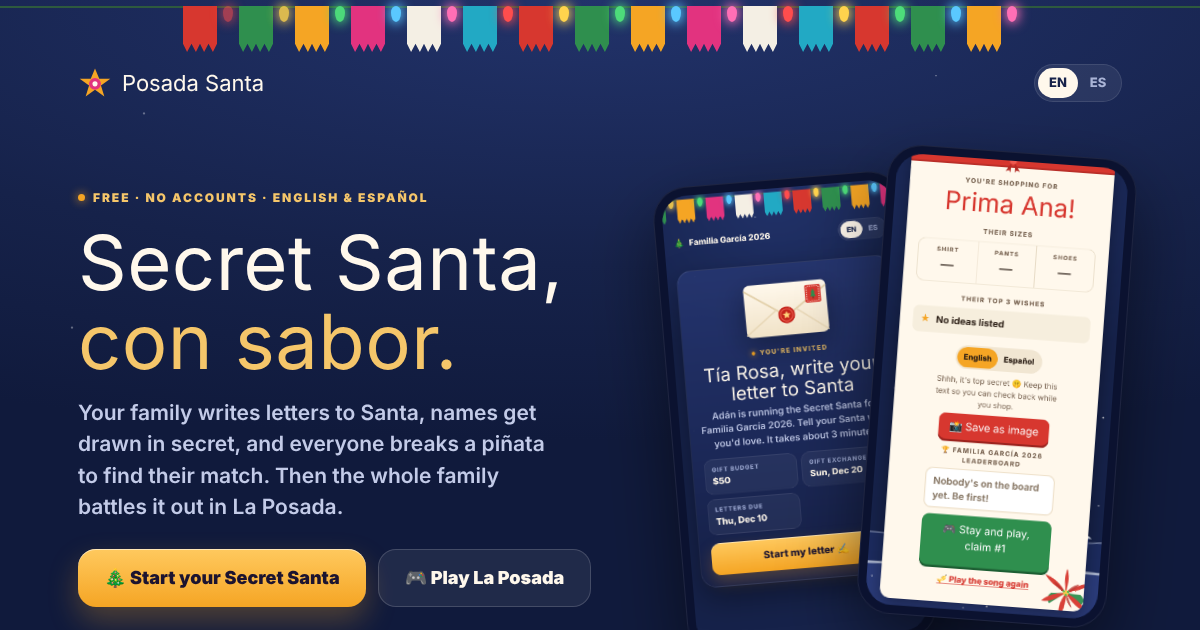
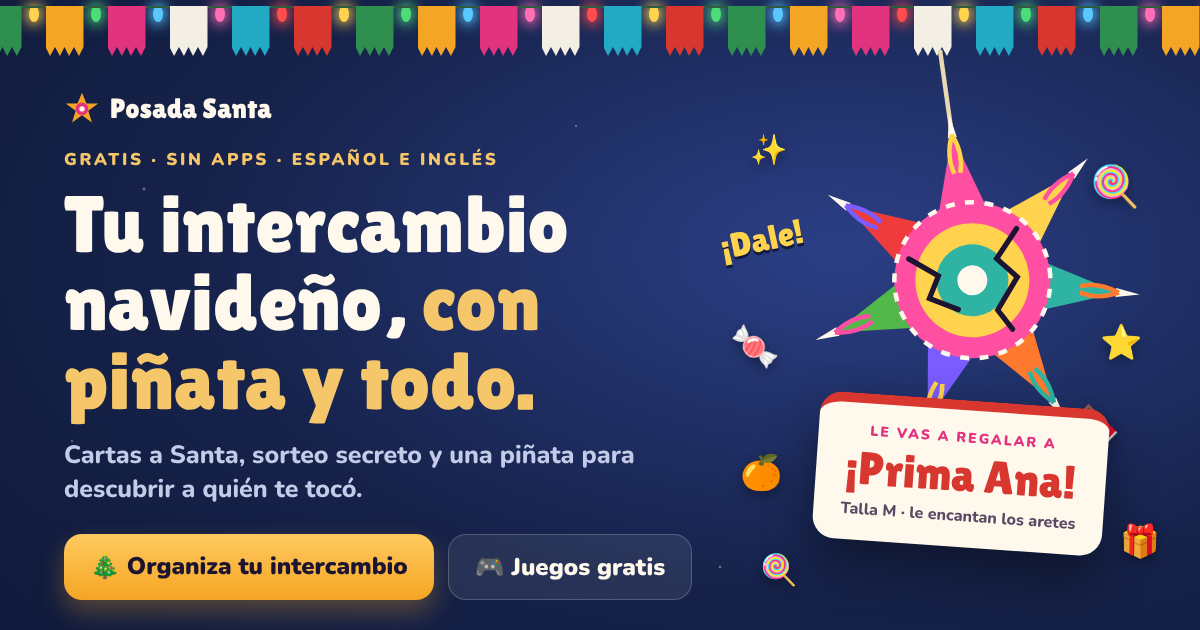
New link preview card: intercambio navideño con piñata, Spanish description, image size tags
Claude-Session: https://claude.ai/code/session_01FvuP1Dx5U5dAXfTBG2Jy9G

diff --git a/index.html b/index.html
@@ -5,13 +5,18 @@
 <meta name="viewport" content="width=device-width,initial-scale=1,viewport-fit=cover">
 <title>Posada Santa · Secret Santa e intercambio navideño con piñata</title>
 <link rel="canonical" href="https://posadaxmas.com/">
-<meta name="description" content="Letters to Santa, a secret name draw and a piñata reveal for your family gift exchange. Free, in English and Spanish, no accounts.">
+<meta name="description" content="Cartas a Santa, sorteo secreto y una piñata para descubrir a quién te tocó. Gratis, en español e inglés, sin cuentas.">
 <meta property="og:type" content="website">
 <meta property="og:site_name" content="Posada Santa">
 <meta property="og:url" content="https://posadaxmas.com/">
 <meta property="og:title" content="Posada Santa · Secret Santa e intercambio navideño con piñata">
-<meta property="og:description" content="Letters to Santa, a secret name draw and a piñata reveal for your family gift exchange. Free, in English and Spanish, no accounts.">
-<meta property="og:image" content="https://posadaxmas.com/assets/og.png">
+<meta property="og:description" content="Cartas a Santa, sorteo secreto y una piñata para descubrir a quién te tocó. Gratis, en español e inglés, sin cuentas.">
+<meta property="og:image" content="https://posadaxmas.com/assets/og-2026.jpg">
+<meta property="og:image:type" content="image/jpeg">
+<meta property="og:image:width" content="1200">
+<meta property="og:image:height" content="630">
+<meta property="og:locale" content="es_MX">
+<meta property="og:locale:alternate" content="en_US">
 <meta name="twitter:card" content="summary_large_image">
 <link rel="manifest" href="/manifest.webmanifest">
 <link rel="apple-touch-icon" href="/assets/apple-touch-icon.png">

diff --git a/privacy.html b/privacy.html
@@ -11,7 +11,12 @@
 <meta property="og:url" content="https://posadaxmas.com/privacy">
 <meta property="og:title" content="Posada Santa · Privacy">
 <meta property="og:description" content="Run your family Secret Santa with Mexican-Christmas flavor: letters to Santa, piñata reveals and a posada game. Free, no accounts.">
-<meta property="og:image" content="https://posadaxmas.com/assets/og.png">
+<meta property="og:image" content="https://posadaxmas.com/assets/og-2026.jpg">
+<meta property="og:image:type" content="image/jpeg">
+<meta property="og:image:width" content="1200">
+<meta property="og:image:height" content="630">
+<meta property="og:locale" content="es_MX">
+<meta property="og:locale:alternate" content="en_US">
 <meta name="twitter:card" content="summary_large_image">
 <link rel="manifest" href="/manifest.webmanifest">
 <link rel="apple-touch-icon" href="/assets/apple-touch-icon.png">

diff --git a/host.html b/host.html
@@ -13,7 +13,12 @@
 <meta property="og:url" content="https://posadaxmas.com/host">
 <meta property="og:title" content="Posada Santa · Organize your Secret Santa">
 <meta property="og:description" content="Add the whole familia, draw names and send invites in minutes. Free, no accounts.">
-<meta property="og:image" content="https://posadaxmas.com/assets/og.png">
+<meta property="og:image" content="https://posadaxmas.com/assets/og-2026.jpg">
+<meta property="og:image:type" content="image/jpeg">
+<meta property="og:image:width" content="1200">
+<meta property="og:image:height" content="630">
+<meta property="og:locale" content="es_MX">
+<meta property="og:locale:alternate" content="en_US">
 <meta name="twitter:card" content="summary_large_image">
 <link rel="manifest" href="/manifest.webmanifest">
 <link rel="apple-touch-icon" href="/assets/apple-touch-icon.png">

diff --git a/juegos.html b/juegos.html
@@ -11,7 +11,12 @@
 <meta property="og:url" content="https://posadaxmas.com/juegos">
 <meta property="og:title" content="Juegos · Posada Santa">
 <meta property="og:description" content="El Trineo, ¡Tamalazo!, La Piñata y La Posada: four free posada games for the whole family.">
-<meta property="og:image" content="https://posadaxmas.com/assets/og.png">
+<meta property="og:image" content="https://posadaxmas.com/assets/og-2026.jpg">
+<meta property="og:image:type" content="image/jpeg">
+<meta property="og:image:width" content="1200">
+<meta property="og:image:height" content="630">
+<meta property="og:locale" content="es_MX">
+<meta property="og:locale:alternate" content="en_US">
 <meta name="twitter:card" content="summary_large_image">
 <link rel="manifest" href="/manifest.webmanifest">
 <link rel="apple-touch-icon" href="/assets/apple-touch-icon.png">

diff --git a/ideas.html b/ideas.html
@@ -12,7 +12,12 @@
 <meta property="og:url" content="https://posadaxmas.com/ideas">
 <meta property="og:title" content="Ideas de regalo · Posada Santa">
 <meta property="og:description" content="Gift ideas picked from your Secret Santa match's letter to Santa.">
-<meta property="og:image" content="https://posadaxmas.com/assets/og.png">
+<meta property="og:image" content="https://posadaxmas.com/assets/og-2026.jpg">
+<meta property="og:image:type" content="image/jpeg">
+<meta property="og:image:width" content="1200">
+<meta property="og:image:height" content="630">
+<meta property="og:locale" content="es_MX">
+<meta property="og:locale:alternate" content="en_US">
 <meta name="twitter:card" content="summary_large_image">
 <link rel="manifest" href="/manifest.webmanifest">
 <link rel="apple-touch-icon" href="/assets/apple-touch-icon.png">

diff --git a/trineo.html b/trineo.html
@@ -11,7 +11,12 @@
 <meta property="og:url" content="https://posadaxmas.com/trineo">
 <meta property="og:title" content="El Trineo · Posada Santa">
 <meta property="og:description" content="Sled down the posada, dodge mariachis and chanclas. Free mini game.">
-<meta property="og:image" content="https://posadaxmas.com/assets/og.png">
+<meta property="og:image" content="https://posadaxmas.com/assets/og-2026.jpg">
+<meta property="og:image:type" content="image/jpeg">
+<meta property="og:image:width" content="1200">
+<meta property="og:image:height" content="630">
+<meta property="og:locale" content="es_MX">
+<meta property="og:locale:alternate" content="en_US">
 <meta name="twitter:card" content="summary_large_image">
 <link rel="manifest" href="/manifest.webmanifest">
 <link rel="apple-touch-icon" href="/assets/apple-touch-icon.png">

diff --git a/tamalazo.html b/tamalazo.html
@@ -11,7 +11,12 @@
 <meta property="og:url" content="https://posadaxmas.com/tamalazo">
 <meta property="og:title" content="¡Tamalazo! · Posada Santa">
 <meta property="og:description" content="Gánale los terrenos a tus tías y tíos. Free mini game.">
-<meta property="og:image" content="https://posadaxmas.com/assets/og.png">
+<meta property="og:image" content="https://posadaxmas.com/assets/og-2026.jpg">
+<meta property="og:image:type" content="image/jpeg">
+<meta property="og:image:width" content="1200">
+<meta property="og:image:height" content="630">
+<meta property="og:locale" content="es_MX">
+<meta property="og:locale:alternate" content="en_US">
 <meta name="twitter:card" content="summary_large_image">
 <link rel="manifest" href="/manifest.webmanifest">
 <link rel="apple-touch-icon" href="/assets/apple-touch-icon.png">

diff --git a/q.html b/q.html
@@ -12,7 +12,12 @@
 <meta property="og:url" content="https://posadaxmas.com/q">
 <meta property="og:title" content="Pregunta secreta · Posada Santa">
 <meta property="og:description" content="Your Secret Santa has a question for you.">
-<meta property="og:image" content="https://posadaxmas.com/assets/og.png">
+<meta property="og:image" content="https://posadaxmas.com/assets/og-2026.jpg">
+<meta property="og:image:type" content="image/jpeg">
+<meta property="og:image:width" content="1200">
+<meta property="og:image:height" content="630">
+<meta property="og:locale" content="es_MX">
+<meta property="og:locale:alternate" content="en_US">
 <meta name="twitter:card" content="summary_large_image">
 <link rel="manifest" href="/manifest.webmanifest">
 <link rel="apple-touch-icon" href="/assets/apple-touch-icon.png">

diff --git a/letter.html b/letter.html
@@ -14,6 +14,8 @@
 <meta property="og:title" content="Posada Santa · Tu carta a Santa">
 <meta property="og:description" content="Write your wishlist letter for the family Secret Santa.">
 <meta property="og:image" content="https://posadaxmas.com/assets/letter.png">
+<meta property="og:locale" content="es_MX">
+<meta property="og:locale:alternate" content="en_US">
 <meta name="twitter:card" content="summary_large_image">
 <link rel="manifest" href="/manifest.webmanifest">
 <link rel="apple-touch-icon" href="/assets/apple-touch-icon.png">

diff --git a/play.html b/play.html
@@ -14,6 +14,8 @@
 <meta property="og:title" content="La Posada · el juego">
 <meta property="og:description" content="Brinca, come tamales y vence a 5 jefes navideños. Free family game.">
 <meta property="og:image" content="https://posadaxmas.com/assets/game.png">
+<meta property="og:locale" content="es_MX">
+<meta property="og:locale:alternate" content="en_US">
 <meta name="twitter:card" content="summary_large_image">
 <link rel="manifest" href="/manifest.webmanifest">
 <link rel="apple-touch-icon" href="/assets/apple-touch-icon.png">

diff --git a/pinata.html b/pinata.html
@@ -14,6 +14,8 @@
 <meta property="og:title" content="Posada Santa · ¡Rompe la piñata!">
 <meta property="og:description" content="Break the piñata to find out who you're gifting.">
 <meta property="og:image" content="https://posadaxmas.com/assets/pinata.png">
+<meta property="og:locale" content="es_MX">
+<meta property="og:locale:alternate" content="en_US">
 <meta name="twitter:card" content="summary_large_image">
 <link rel="manifest" href="/manifest.webmanifest">
 <link rel="apple-touch-icon" href="/assets/apple-touch-icon.png">
